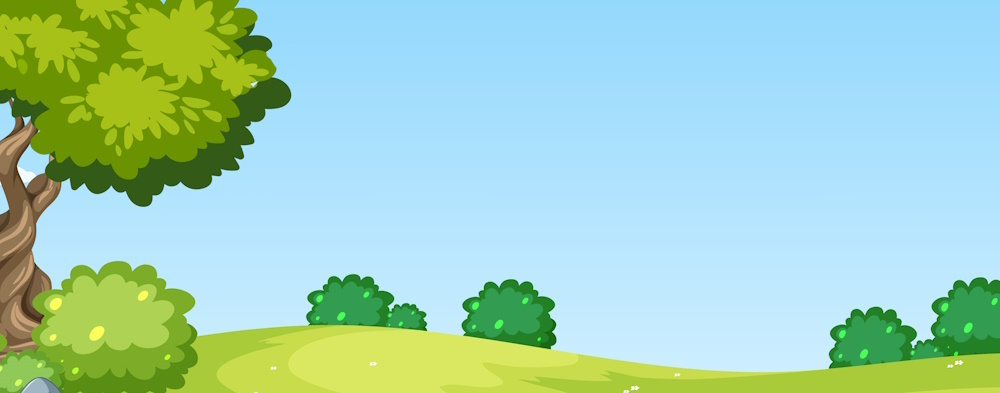
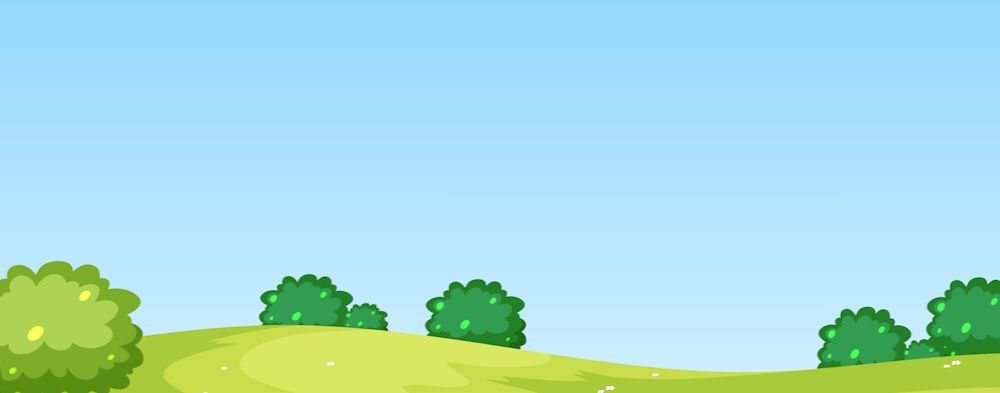
com

Changed region(s): [[0.0, 0.0, 0.713, 1.0], [0.775, 0.7023, 0.992, 0.9466], [0.31, 0.916, 0.341, 0.9466]]

diff --git a/src/components/Shared/CloudHomeImage.tsx b/src/components/Shared/CloudHomeImage.tsx
@@ -6,6 +6,11 @@ export interface HomeCardProps {
     label: string;
     href: string;
     imageUrl: string;
+    transition: {
+        initial: number,
+        animate: number,
+        duration: number
+    }
 }
 export default function CloudHomeImage({ label, href, imageUrl }: HomeCardProps) {
 
@@ -14,8 +19,8 @@ export default function CloudHomeImage({ label, href, imageUrl }: HomeCardProps)
             <motion.div
                 className='flex justify-center items-center bg-cover bg-no-repeat w-[400px] h-[120px] absolute gap-4'
                 style={{ backgroundImage: "url('/images/home/cloud.png')" }}
-                initial={{ right: "30%" }}
-                animate={{ right: "70%" }}
+                initial={{ right: -200 }}
+                animate={{ right: 200 }}
                 transition={{ duration: 10, repeat: Infinity, repeatType: "reverse" }}
             >
                 {

diff --git a/src/components/navbar/Navbar.tsx b/src/components/navbar/Navbar.tsx
@@ -23,7 +23,7 @@ export default function Navbar() {
     return (
         <nav className="
                 p-4
-                bg-white
+                bg-orange-500 
                 flex-col sm:flex-row sm:flex
                 justify-center"
         >
@@ -44,7 +44,7 @@ export default function Navbar() {
                     </button>
                 </div>
             </div>
-            <div className={`sm:flex text-neutral-600  ${collapsed ? "hidden" : ""}`}>
+            <div className={`sm:flex text-white  ${collapsed ? "hidden" : ""}`}>
                 <ul className="me-5
                     sm:flex gap-4 items-center
                     px-10 py-2 sm:space-y-0 space-y-2 sm:p-1"

diff --git a/src/app/[locale]/layout.tsx b/src/app/[locale]/layout.tsx
@@ -32,8 +32,10 @@ export default async function RootLayout({ children, params }: RootLayoutProps) 
     <html lang={params.locale} dir={params.locale == 'ar' ? 'rtl' : 'ltr'} >
       <body className='bg-orange-600 '>
         <NextIntlClientProvider locale={params.locale} messages={messages}>
-          <Navbar />
-          <div>
+          <div
+            className="min-h-screen bg-no-repeat bg-cover relative overflow-hidden"
+            style={{ backgroundImage: 'url("/images/home/banner.jpg")' }}>
+            <Navbar />
             {children}
           </div>
           <Footer></Footer>

diff --git a/src/app/[locale]/page.tsx b/src/app/[locale]/page.tsx
@@ -22,7 +22,7 @@ export default function Home({ params }: HomeProps) {
   const t = useTranslations('home');
 
   return (
-    <div className="min-h-screen bg-no-repeat bg-cover relative" style={{ backgroundImage: 'url("/images/home/banner.jpg")' }}>
+    <div className="h-full overflow-hidden">
       <CloudHomeImage
         label={t("Preschool")}
         href={`/${params.locale}/courses/preschool2`}
